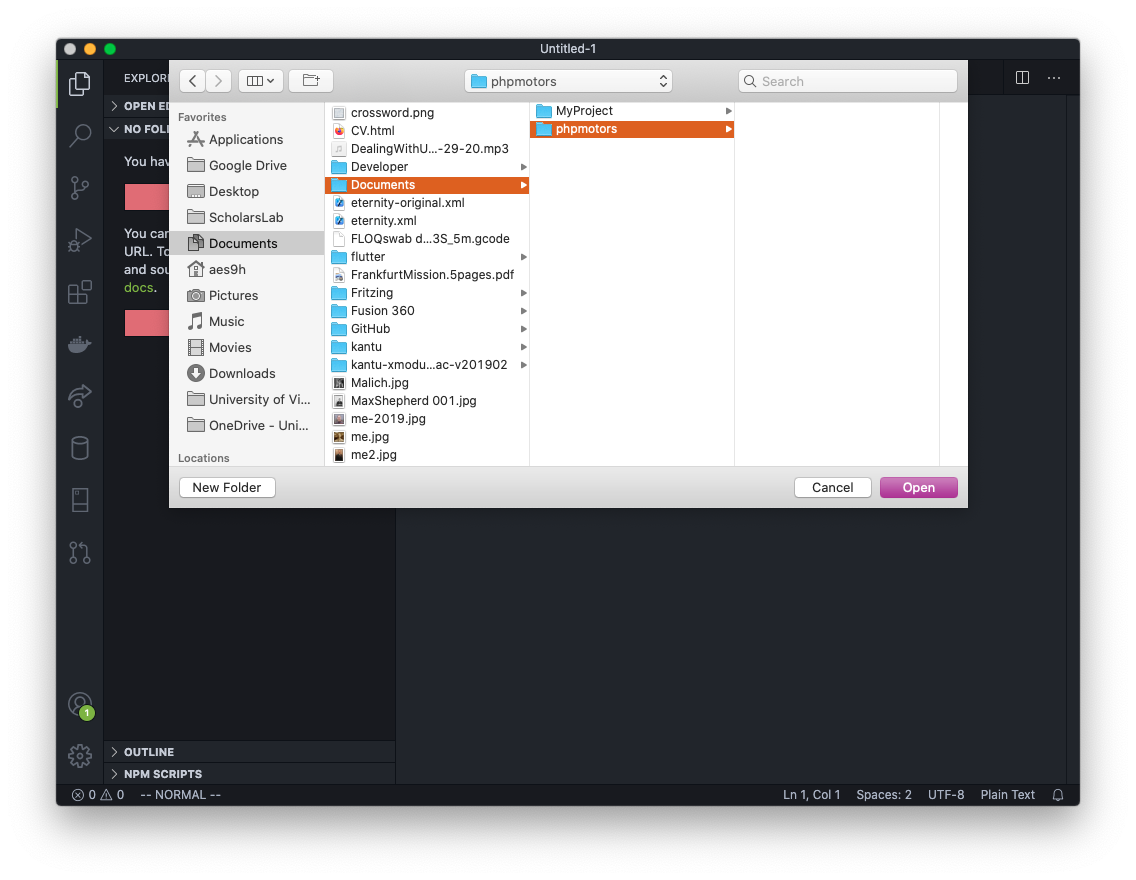
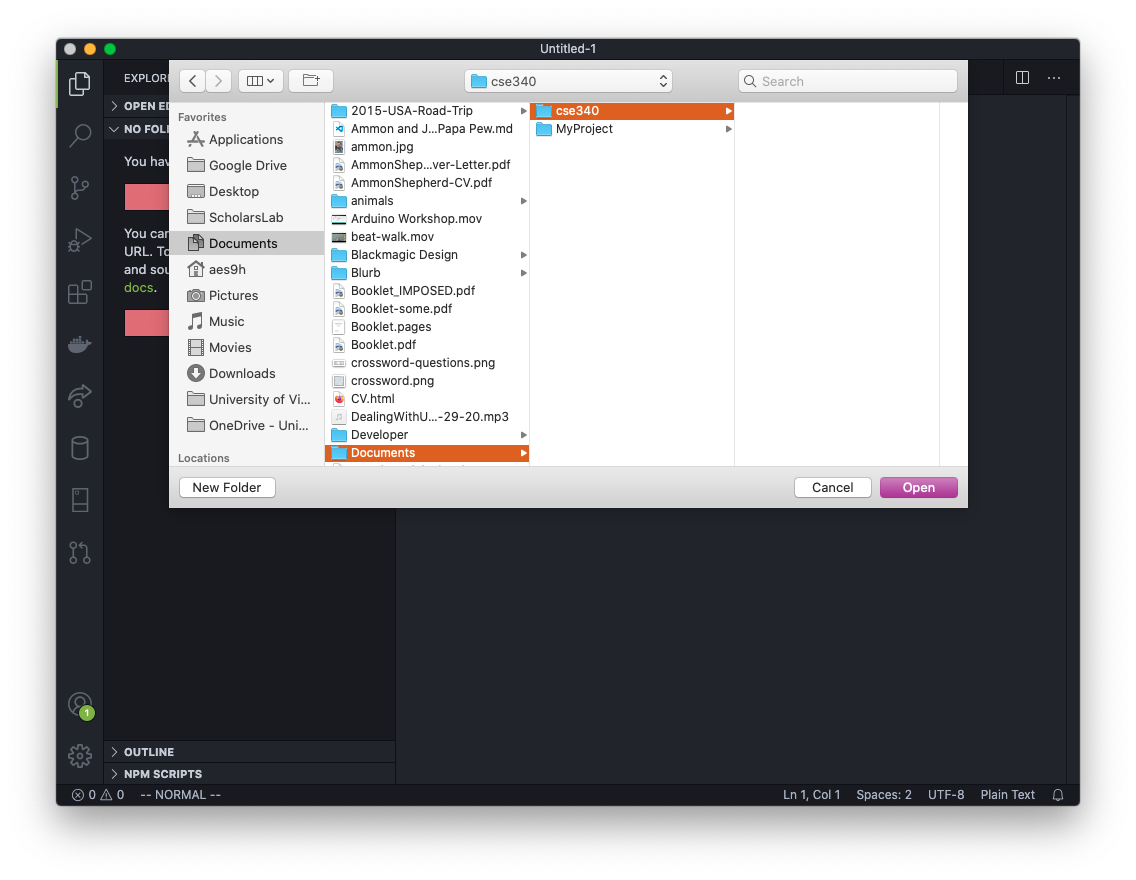
Update to use cse340 as project directory

Changed region(s): [[0.2773, 0.092, 0.647, 0.5523]]

diff --git a/phpmotors/views/docker-setup.html b/phpmotors/views/docker-setup.html
@@ -44,11 +44,16 @@
 
       <h1 id="create-a-project-folder">Create a Project Folder</h1>
       <p>Next we need to decide where to locate the files for this course. Create a project folder anywhere on your computer that you like. One suggestion is to create this in your Documents folder.</p>
-      <p>Open VS Code in a new window (<u>File-&gt;New Window</u>). We will now create a new folder named <code>phpmotors</code> that will hold the Docker files and the website project files. Click the <u>Open Folder</u> button, browse to the path where you want your project files to reside, and create a new folder named <code>phpmotors</code>. Then click the <u>Open</u> button.</p>
-      <p><img src="/340br/images/docker/open-folder-button.png" alt="Open folder button" /> <img src="/340br/images/docker/create-folder.png" alt="Create folder" /></p>
+
+      <iframe width="560" height="315" src="https://www.youtube.com/embed/FhjLQYFg3FY" frameborder="0" allow="accelerometer; autoplay; clipboard-write; encrypted-media; gyroscope; picture-in-picture" allowfullscreen></iframe>
+
+      <p>Open VS Code in a new window (<u>File-&gt;New Window</u>). We will now create a new folder named <code>cse340</code> that will hold the Docker files and the website project files. Click the <u>Open Folder</u> button, browse to the path where you want your project files to reside, and create a new folder named <code>cse340</code>. Then click the <u>Open</u> button.</p>
+      <p><img src="/340br/images/docker/open-folder-button.png" alt="Open folder button" /></p>
+
+      <p> <img src="/340br/images/docker/create-folder.png" alt="Create folder" /></p>
       <p>Your workspace in VS Code should now look something like this:</p>
       <p><img src="/340br/images/docker/vscode-workspace.png" alt="VS Code Workspace" /></p>
-      <p>When you are asked to zip your project folder, this is the folder you will zip up, including all of the contents within.</p>
+      <p>When you are asked to zip your project folder, the <code>cse340</code> folder is the folder you will zip up, including all of the contents within.</p>
 
 
       <h1 id="clone-the-web-server-files">Clone the Web Server Files</h1>
@@ -84,7 +89,7 @@
       <p>In the Terminal, type in </p>
       <p> <code class="command">docker network create traefikNetwork</code> </p>
       <p> and hit Enter. </p>
-      <p><img src="/340br/images/docker/docker-create-network.png" alt="Docker create network" /></p>
+      <p><img src="/340br/images/docker/docker-network-create.png" alt="Create Docker network" /></p>
 
       <p>Click on the docker-compose.yml file in the VS Code sidebar so you can edit the contents.</p>
       <p>Change the name of the database on line 43 to <code>phpmotors</code>. Make sure to save the file!</p>
@@ -114,10 +119,14 @@
       </p>
       <p>If you go back to VS Code you'll notice that the Terminal is showing the visits to the websites. We can potentially use this for debugging. We can also have Docker run in the background.</p>
 
-      <p>Stop Docker by clicking in the Terminal to select that area. Then hold down the Control key and type the C key (Ctrl-C). This will close the Docker process. Next, run a command to ensure all the Docker containers stopped correctly. Type </p>
-      <p><code class="command">docker-compose down</code></p>
-      <p>After that finishes, run the containers again using </p>
+      <p>Stop Docker by clicking in the Terminal to select that area. Then hold down the Control key and type the C key (Ctrl-C).</p>
+      <p><img src="/340br/images/docker/docker-compose-up-d.png" alt="Docker Compose up command" /></p>
 
+      <p> This will close the Docker process. Next, run a command to ensure all the Docker containers stopped correctly. Type the following command </p>
+      <p><code class="command">docker-compose down</code></p>
+      <p><img src="/340br/images/docker/docker-compose-down.png" alt="Docker Compose down command" /></p>
+
+      <p>After that finishes, run the containers again using </p>
       <p> <code class="command">docker-compose up -d</code> </p>
       <p>This will run the processes in the background, freeing up the terminal for use. Also note how much quicker the process goes, as Docker does not need to download the images again.</p>
       <p><img src="/340br/images/docker/docker-compose-up-d.png" alt="Docker Compose up command" /></p>
@@ -132,7 +141,7 @@
         <li><code>traefik</code> is a container to manage the networking and domain routing.</li>
       </ol>
       </p>
-      <p>As a reminder, all website files that we create in this course will go in the <code>www</code> folder.</p>
+      <p>As a reminder, all website files that we create in this course will go in a subfolder of the <code>www</code> folder. We will create that in a later step.</p>
       <p>Finally, note a new folder named <code>dbdata</code>. This is where all of the MySQL database files are stored. <mark>Do not change any of the files in this folder.</mark></p>
 
     </main>
